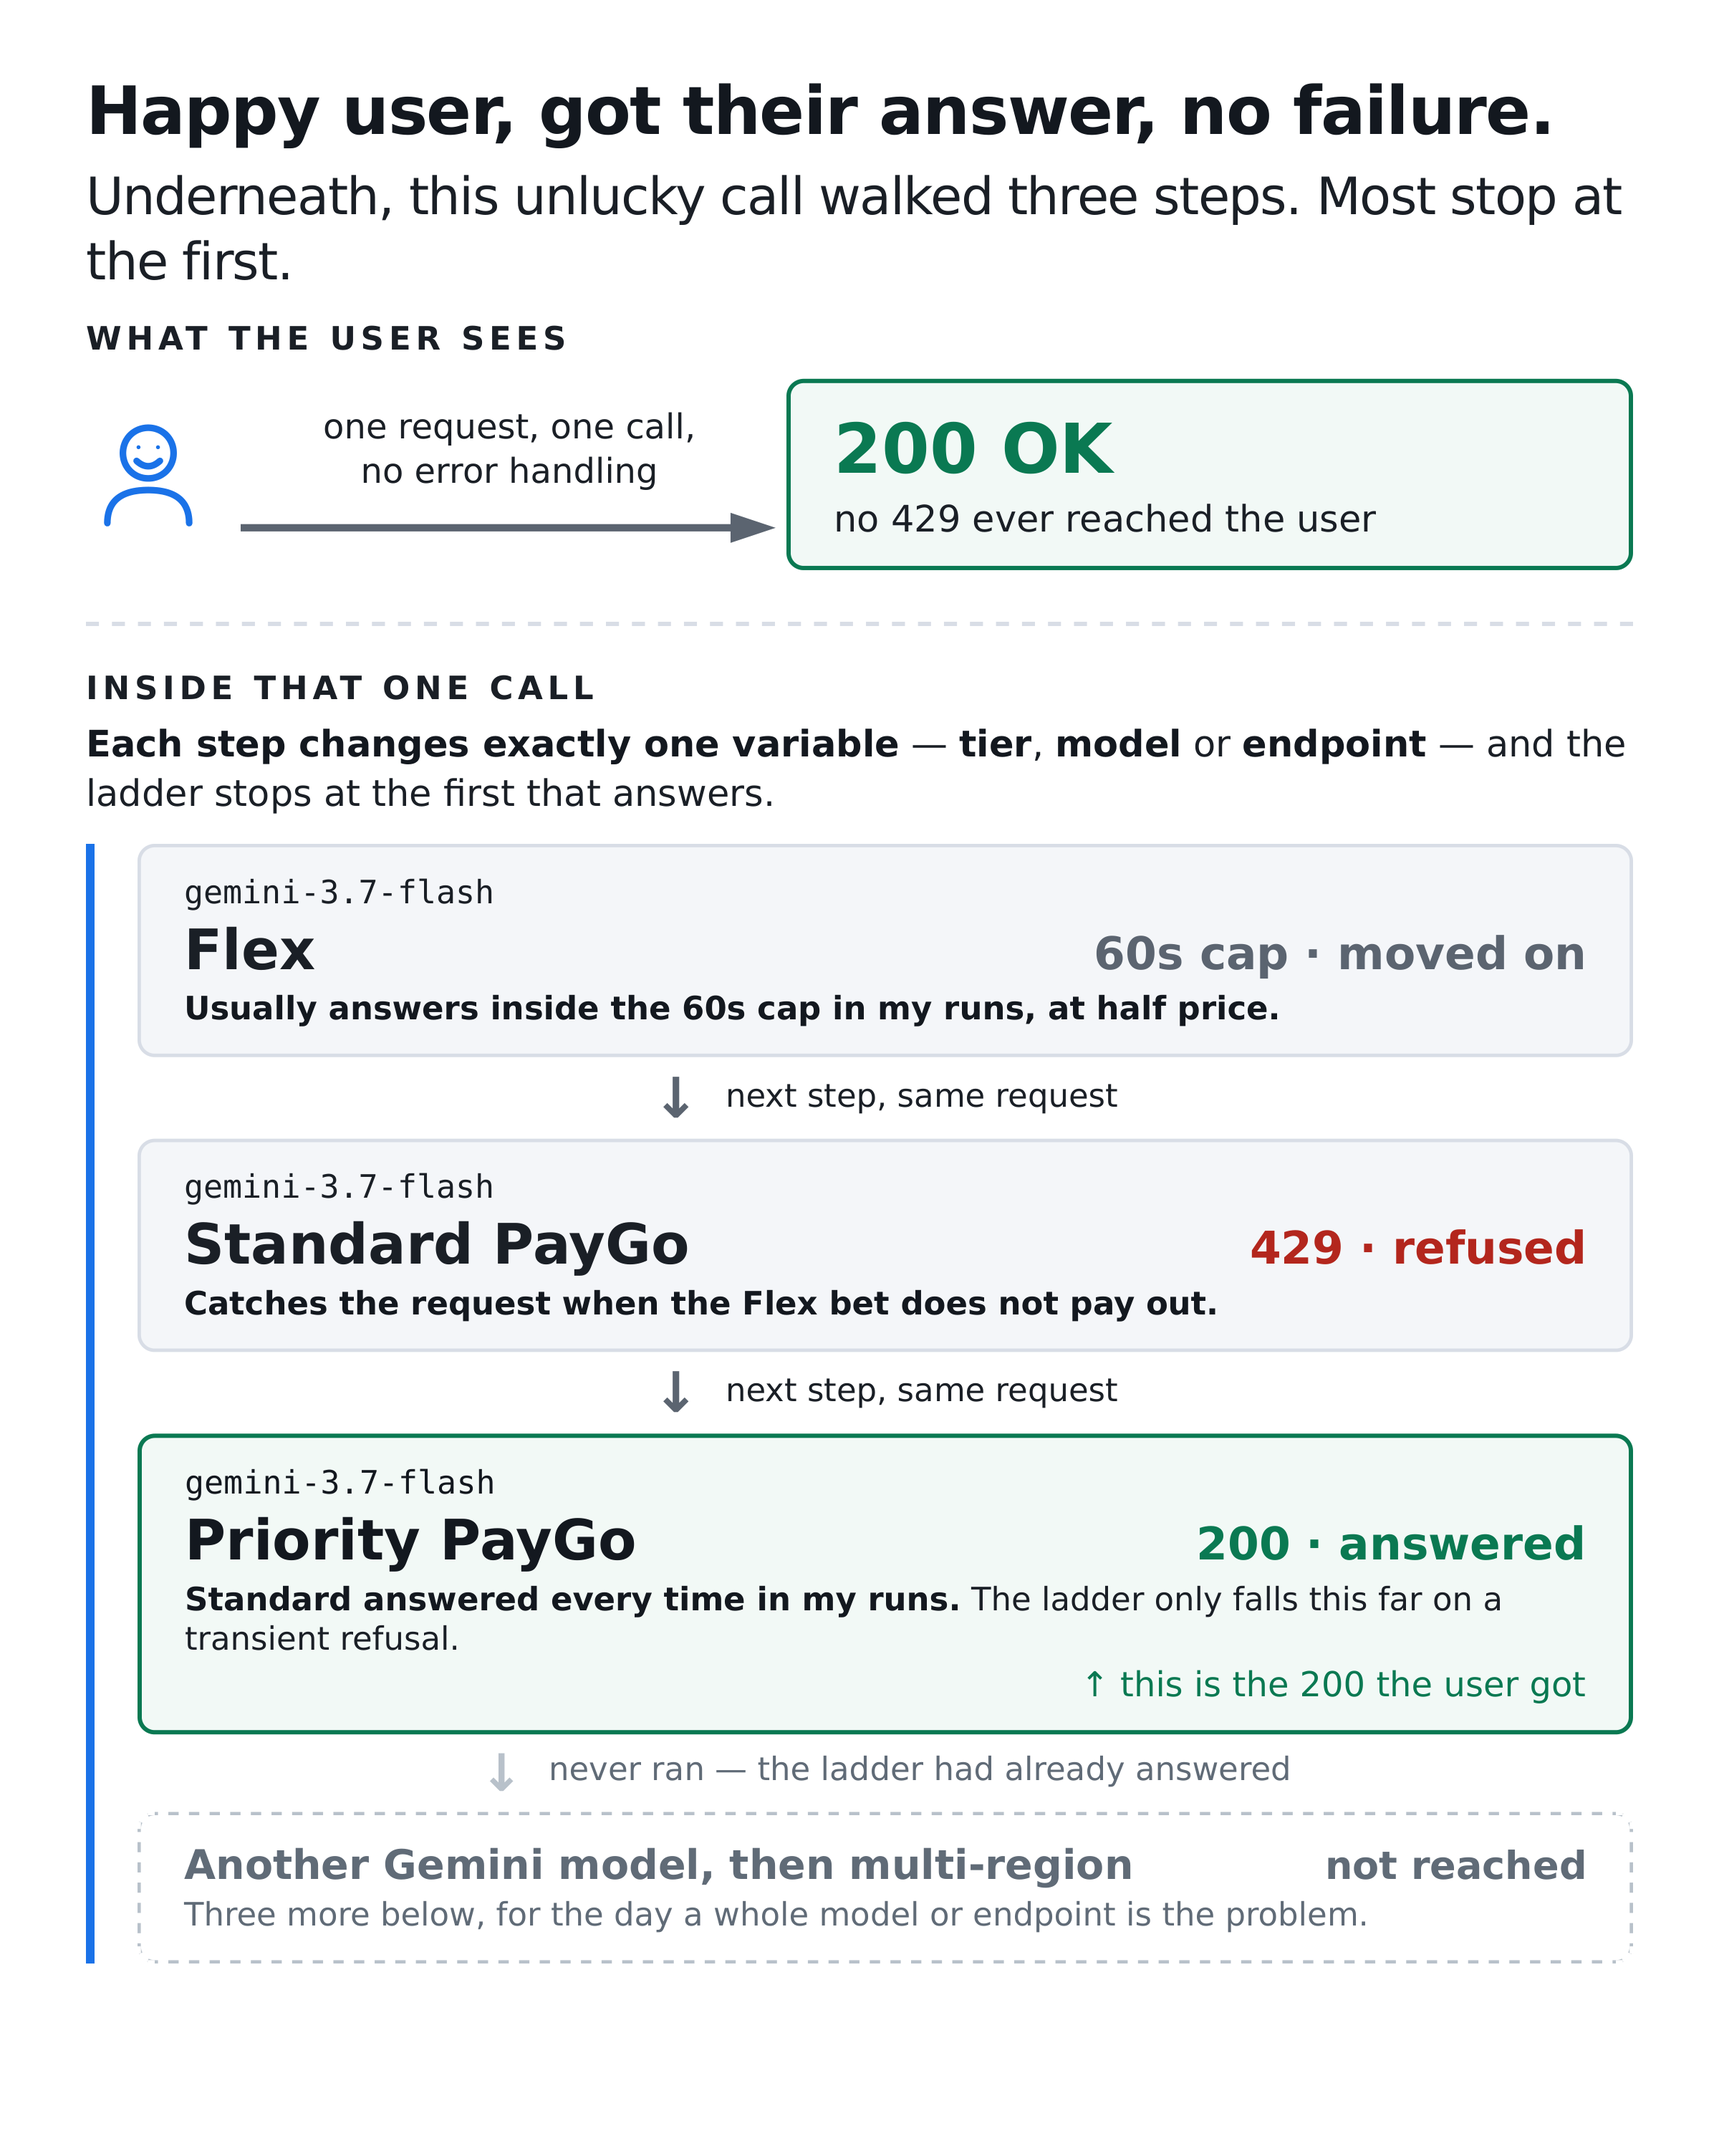
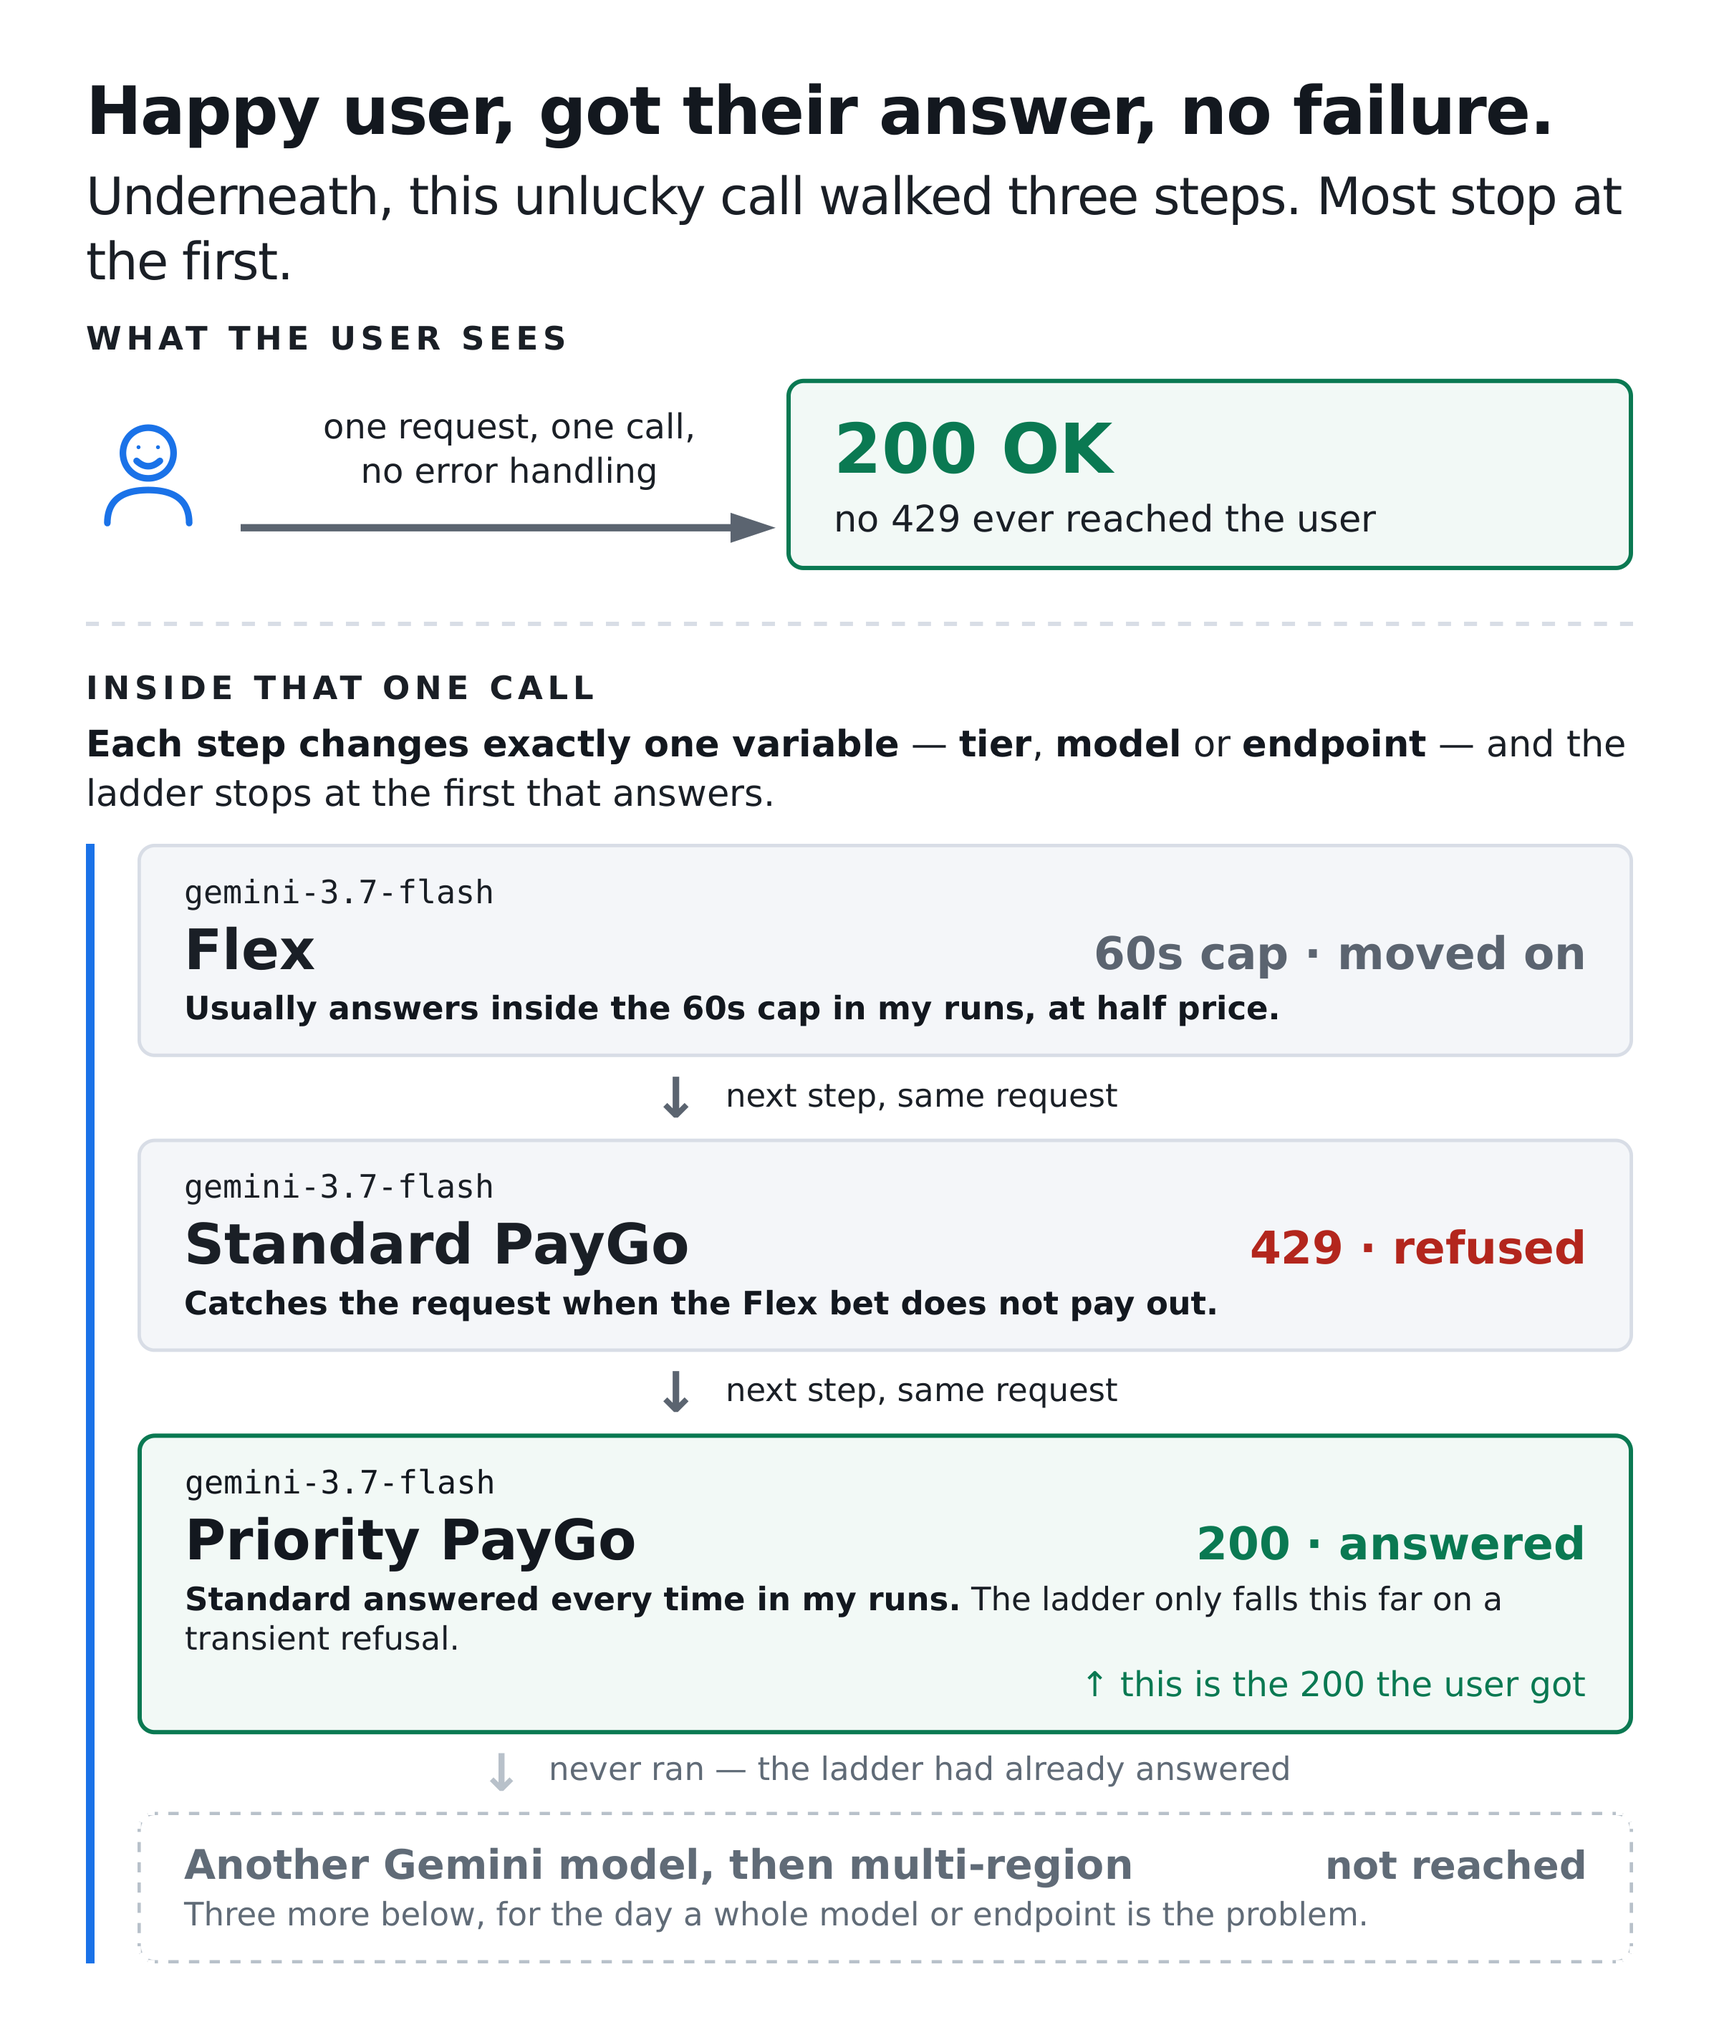
Trim the dead ninth off the bottom of the social figure
The 4:5 page was sized to the ratio, not the content. Ink stopped at y=2740 of
3000, so an eighth of the frame was blank -- which reads as a rendering
mistake rather than margin, and reads worse on LinkedIn, where any portrait
image sits against a dark pillarbox that draws the eye straight to the empty
strip.

Page goes 1000pt to 947pt: the ink plus the top padding, mirrored at the
bottom. 2400x3000 to 2400x2841, ratio 0.845, still inside the 0.8 floor
LinkedIn renders without cropping. Bottom whitespace 8.7% to 3.6%.

Content is untouched -- this is the same figure with the frame pulled in.
docs/concept.html, the landscape sibling, is unaffected.

diff --git a/docs/concept_linkedin.html b/docs/concept_linkedin.html
@@ -15,10 +15,13 @@
     --good:  #0b7a52;
   }
 
-  /* 4:5 portrait. LinkedIn shows this ratio in the feed without cropping, and
-     it is the tallest it will take -- which is what buys the type its size.
-     The landscape original is docs/concept.html; keep the two in step. */
-  @page { size: 800pt 1000pt; margin: 0; }
+  /* Portrait for social. 4:5 (800x1000) is the tallest LinkedIn renders
+     without cropping, but the content only reaches 913pt and a blank ninth of
+     the frame reads as a mistake -- worse next to LinkedIn's dark pillarbox,
+     which is what surrounds any portrait image there. Trimmed to the ink plus
+     the top padding. The landscape original is docs/concept.html; keep the
+     two in step. */
+  @page { size: 800pt 947pt; margin: 0; }
 
   * { box-sizing: border-box; }
 
@@ -27,7 +30,7 @@
   body {
     margin: 0;
     padding: 34pt 40pt;
-    width: 800pt; height: 1000pt;
+    width: 800pt; height: 947pt;
     font-family: "DejaVu Sans", sans-serif;
     color: var(--ink);
     background: #fff;
